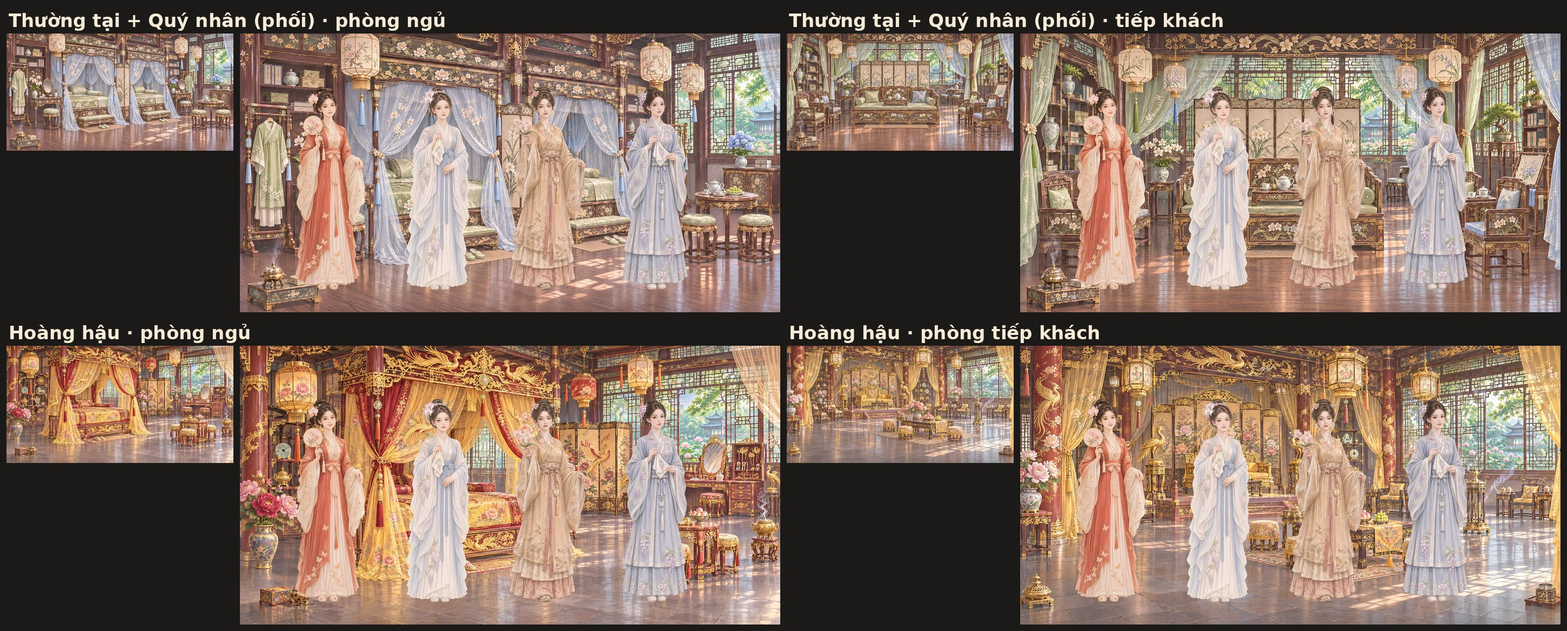
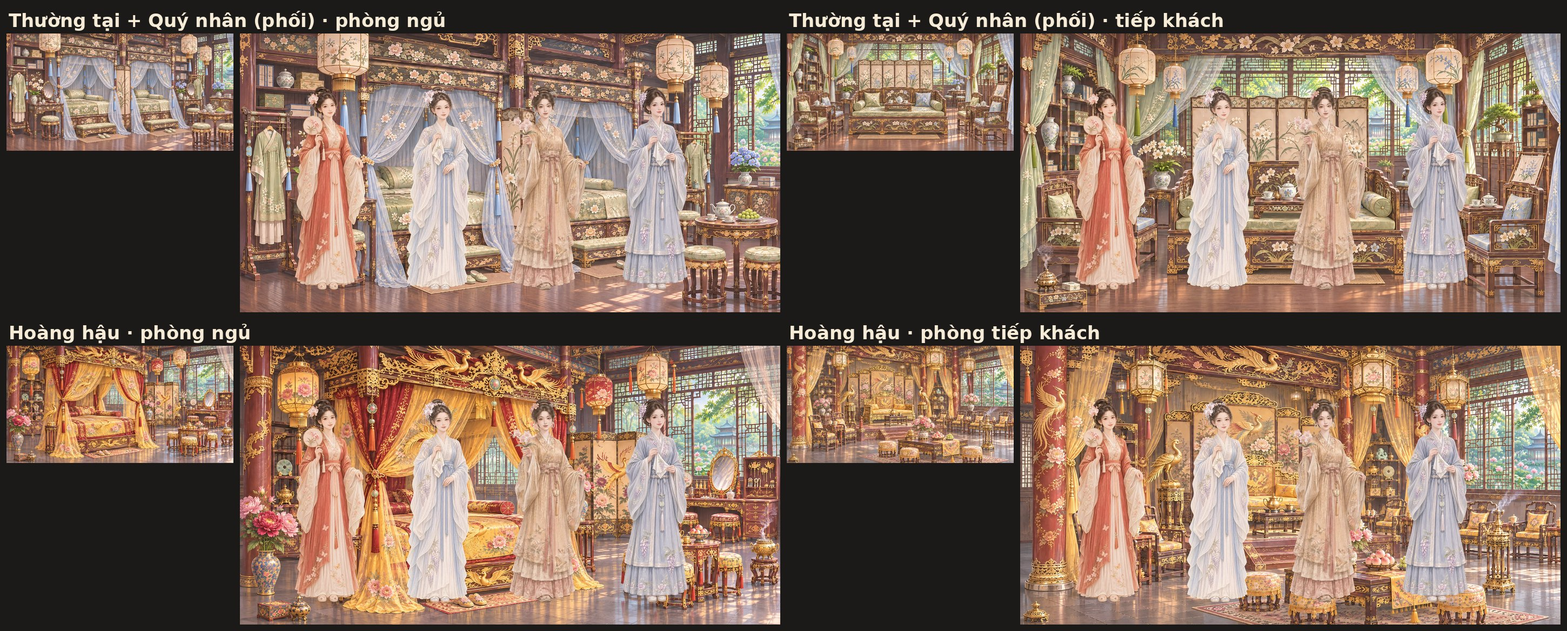
place-rank v6 PR7: sheet B phối + Khôn Ninh less floor (Lượt 520)
Claude-Session: https://claude.ai/code/session_01PEhRbwronSNrACtu2Qiwhx

diff --git a/dev/handover/reports/place-rank-sample.md b/dev/handover/reports/place-rank-sample.md
@@ -194,3 +194,12 @@ v5 copies: img/_review/place-rank/v5/ (disk + CDN).
 | Quý phi reception | 9ZHIVwlNYZ | ~25 % → ~11 % |
 Sheet: dev/handover/review-sheets/place-rank/place-rank-A-canh-phuc.jpg · CDN https://ctm-img.victoria-tntt.workers.dev/img/_review/place-rank/place-rank-A-canh-phuc.jpg
 Notes (ours, NOT prompt changes — LAW #0): Tần reception left armchair pair now larger close to the left edge; Phi bedroom bed curtains now reach the bottom ~90 % (figures stand in front of the bed bench).
+### Sheet B — phối 2 + Khôn Ninh 2 (4 gens, 540 cr, 0 redos)
+| room | gen | open centre floor before → v6 |
+|---|---|---|
+| phối bedroom | s7I0GAVl8e | ~22 % → ~10 % |
+| phối reception | jUoWAEyLD0 | ~28 % → ~12 % |
+| Khôn Ninh bedroom | YMlHuhtWeC | ~25 % → ~9 % |
+| Khôn Ninh reception | rgXnGrDxtc | ~15 % → ~4 % |
+Sheet: dev/handover/review-sheets/place-rank/place-rank-B-phoi-khon-ninh.jpg · CDN https://ctm-img.victoria-tntt.workers.dev/img/_review/place-rank/place-rank-B-phoi-khon-ninh.jpg
+Notes (ours, not changed): Khôn Ninh reception — the front low table + stools now reach the bottom edge, so on the people sheet figures 3–4 stand among/over the stools (feet not on clear floor).
